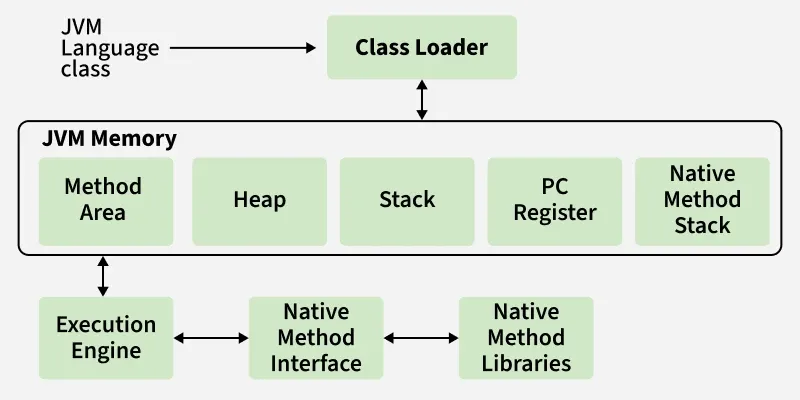
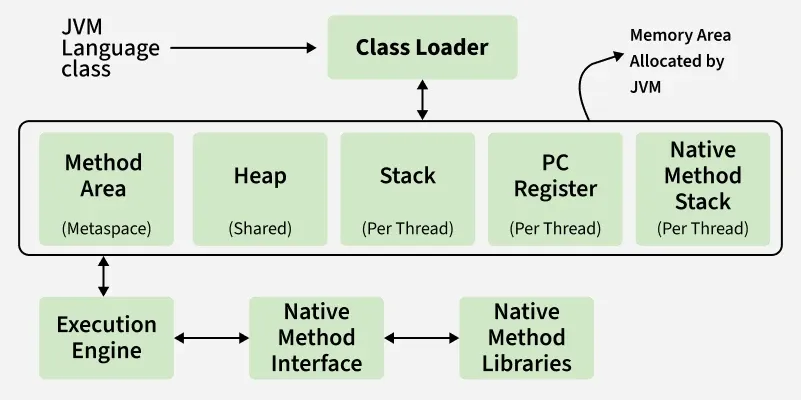
Update JVM Notes

diff --git a/Java_Test/src/main/StudyNotes/JAVA/009_JVM_Architecture.md b/Java_Test/src/main/StudyNotes/JAVA/009_JVM_Architecture.md
@@ -104,6 +104,8 @@ JVM Memory
 5. Native Method Stack
 ```
 
+![JVM_Architecture.png](Images/JVM_Architecture.png)
+
 ### Memory Diagram
 
 ```text
@@ -909,6 +911,75 @@ Object becomes unreachable
           ↓
 Garbage Collector reclaims memory
 ```
+
+---
+
+# 21. [Differences Between JDK, JRE and JVM](https://www.geeksforgeeks.org/java/differences-jdk-jre-jvm/)
+
+![img.png](Images/JDK_JRE_JVM.png)
+
+### **JDK (Java Development Kit)**
+
+JDK is a software development kit used to build Java applications. It contains the JRE and a set of development tools.
+
+* Includes compiler (javac), debugger, and utilities like jar and javadoc.
+* Provides the JRE, so it also allows running Java programs.
+* Required by developers to write, compile, and debug code.
+
+#### **Components of JDK:**
+
+* JRE (JVM + libraries)
+* Development tools (compiler, jar, javadoc, debugger)
+
+#### **Working of JDK**
+
+* Source Code (.java): Developer writes a Java program.
+* Compilation: The JDK’s compiler (javac) converts the code into bytecode stored in .class files.
+* Execution: The JVM executes the bytecode, translating it into native instructions.
+
+### JRE (Java Runtime Environment)
+JRE provides an environment to run Java programs but does not include development tools. It is intended for end-users who only need to execute applications.
+
+* Contains the JVM and standard class libraries.
+* Provides all runtime requirements for Java applications.
+* Does not support compilation or debugging.
+* JRE is only for running applications, not for developing them.
+* It is platform-dependent (different builds for different OS).
+
+#### **Working of JRE:**
+* Class Loading: Loads compiled .class files into memory.
+* Bytecode Verification: Ensures security and validity of bytecode.
+* Execution: Uses the JVM (interpreter + JIT compiler) to execute instructions and make system calls.
+
+### **JVM (Java Virtual Machine)**
+JVM is the core execution engine of Java. It is responsible for converting bytecode into machine-specific instructions.
+
+* Part of both JDK and JRE.
+* Performs memory management and garbage collection.
+* Provides portability by executing the same bytecode on different platforms.
+* JVM implementations are platform-dependent.
+* Bytecode is platform-independent and can run on any JVM.
+* Modern JVMs rely heavily on Just-In-Time (JIT) compilation for performance.
+
+![JVM_Architecture.png](Images/JVM_Architecture.png)
+
+#### **Working of JVM:**
+* Loading: Class loader loads bytecode into memory.
+* Linking: Performs verification, preparation, and resolution.
+* Initialization: Executes class constructors and static initializers.
+* Execution: Interprets or compiles bytecode into native code.
+
+> JVM is the virtual machine that executes Java bytecode and manages memory, class loading, and garbage collection. JRE is the runtime environment that contains JVM and the required libraries to run Java applications. JDK is the complete development kit that contains JRE, JVM, and development tools such as javac, jar, and jdb. In short: JDK is used to develop Java applications, JRE is used to run them, and JVM is the engine that actually executes the bytecode.
+
+| Feature                       | JVM | JRE | JDK |
+|-------------------------------|-----|-----|-----|
+| Executes Java Program         | ✅   | ✅   | ✅   |
+| Contains JVM                  | ❌   | ✅   | ✅   |
+| Contains Compiler (javac)     | ❌   | ❌   | ✅   |
+| Used for Development          | ❌   | ❌   | ✅   |
+| Used for Running Applications | ✅   | ✅   | ✅   |
+| Contains Development Tools    | ❌   | ❌   | ✅   |
+| Contains Runtime Libraries    | ❌   | ✅   | ✅   |
 
 ---
 
